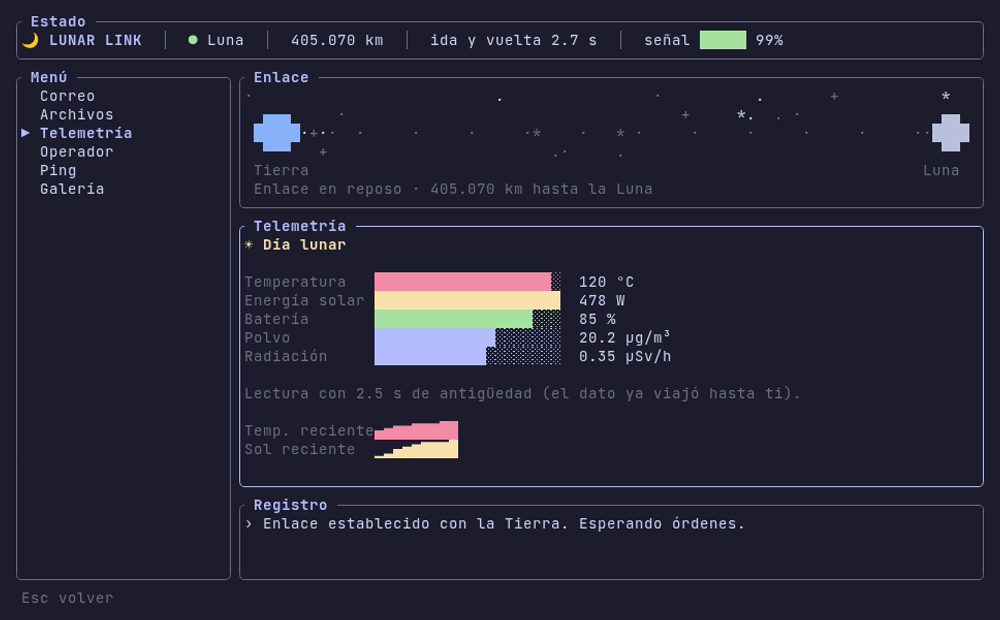
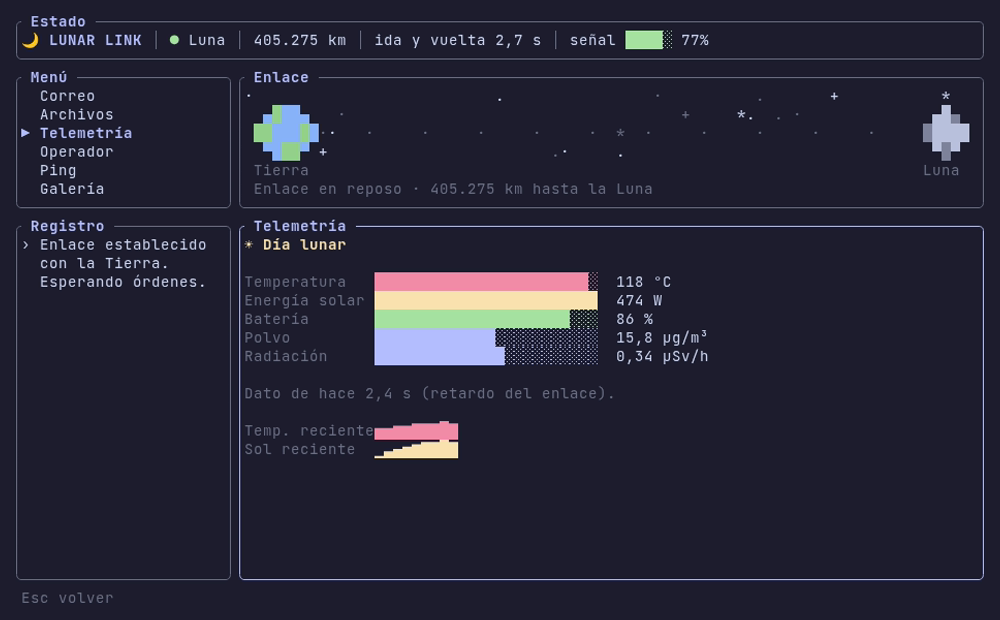
feat: redraw the ASCII gallery and texture the orbit bodies
The gallery art was lopsided (the Moon read as a ⊃, the rover as a
line of symbols) and rendered flush left in a single colour. Five new
symmetric pieces are sized for the 64x24 panel (checked by a test),
centred as a block and coloured by role. Earth, Moon and Mars in the
link panel get continents, craters and dark patches instead of flat
blocks. Adds a gallery screenshot and longer startup waits in the vhs
tapes, which sometimes captured a blank frame.

diff --git a/src/ui.rs b/src/ui.rs
@@ -27,6 +27,66 @@ const STAR: Color = Color::Rgb(205, 214, 244);
 const EARTH: Color = Color::Rgb(137, 180, 250);
 const MOON: Color = Color::Rgb(186, 194, 222);
 const MARS: Color = Color::Rgb(250, 179, 135);
+const LAND: Color = Color::Rgb(148, 210, 140);
+const CRATER: Color = Color::Rgb(127, 132, 156);
+const MARS_DARK: Color = Color::Rgb(206, 126, 96);
+
+/// Sprite de un cuerpo celeste: glifos y, en paralelo, una máscara de color por celda.
+/// En la máscara `o` es el color base, `x` el secundario y el espacio deja ver el
+/// fondo (las estrellas).
+struct Sprite {
+    rows: [&'static str; 3],
+    mask: [&'static str; 3],
+    base: Color,
+    detail: Color,
+}
+
+const EARTH_SPRITE: Sprite = Sprite {
+    rows: [" ▄███▄ ", "███████", " ▀███▀ "],
+    mask: [" oxooo ", "xxoooxo", " ooxxo "],
+    base: EARTH,
+    detail: LAND,
+};
+const MOON_SPRITE: Sprite = Sprite {
+    rows: [" ▄█▄ ", "█████", " ▀█▀ "],
+    mask: [" oox ", "xoooo", " oxo "],
+    base: MOON,
+    detail: CRATER,
+};
+const MARS_SPRITE: Sprite = Sprite {
+    rows: [" ▄█▄ ", "█████", " ▀█▀ "],
+    mask: [" oox ", "xooxo", " oxo "],
+    base: MARS,
+    detail: MARS_DARK,
+};
+
+impl Sprite {
+    fn width(&self) -> i32 {
+        self.rows[0].chars().count() as i32
+    }
+
+    /// Dibuja el sprite con su esquina superior izquierda en (`x`, `y`).
+    fn draw(&self, buf: &mut Buffer, area: Rect, x: i32, y: i32) {
+        for (dy, (row, mask)) in self.rows.iter().zip(self.mask).enumerate() {
+            for (dx, (glyph, m)) in row.chars().zip(mask.chars()).enumerate() {
+                let color = match m {
+                    'o' => self.base,
+                    'x' => self.detail,
+                    _ => continue,
+                };
+                let mut tmp = [0u8; 4];
+                put(
+                    buf,
+                    area,
+                    x + dx as i32,
+                    y + dy as i32,
+                    glyph.encode_utf8(&mut tmp),
+                    Style::new().fg(color),
+                );
+            }
+        }
+    }
+}
 
 pub const MENU_WIDTH: u16 = 24;
 pub const MIN_WIDTH: u16 = 64;
@@ -352,13 +412,14 @@ fn render_orbit(frame: &mut Frame, app: &App, area: Rect) {
     let center = y0 + sky_h / 2;
     let w = i32::from(inner.width);
 
-    let (dest_color, dest_label) = match app.link.target {
-        Target::Luna => (MOON, "Luna"),
-        Target::Marte => (MARS, "Marte"),
+    let dest = match app.link.target {
+        Target::Luna => &MOON_SPRITE,
+        Target::Marte => &MARS_SPRITE,
     };
+    let dest_label = app.link.target.label();
     let earth_x = x0 + 1;
-    let dest_x = x0 + w - 5;
-    let path_start = earth_x + 6;
+    let dest_x = x0 + w - 1 - dest.width();
+    let path_start = earth_x + EARTH_SPRITE.width() + 1;
     let path_end = dest_x - 2;
     let path_len = f64::from(path_end - path_start).max(1.0);
 
@@ -399,25 +460,27 @@ fn render_orbit(frame: &mut Frame, app: &App, area: Rect) {
     }
 
     // Cuerpos celestes.
-    let earth = [" ▄▄▄ ", "█████", " ▀▀▀ "];
-    let dest = [" ▄▄ ", "████", " ▀▀ "];
-    for (i, row) in earth.iter().enumerate() {
-        let y = center - 1 + i as i32;
-        put(buf, inner, earth_x, y, row, Style::new().fg(EARTH));
-    }
-    for (i, row) in dest.iter().enumerate() {
-        let y = center - 1 + i as i32;
-        put(buf, inner, dest_x, y, row, Style::new().fg(dest_color));
-    }
+    EARTH_SPRITE.draw(buf, inner, earth_x, center - 1);
+    dest.draw(buf, inner, dest_x, center - 1);
+    // Etiquetas centradas bajo cada cuerpo.
     let label_y = y0 + sky_h;
-    put(buf, inner, earth_x, label_y, "Tierra", Style::new().fg(DIM));
+    let centered = |x: i32, sprite_w: i32, label: &str| x + (sprite_w - label.len() as i32) / 2;
+    let style = Style::new().fg(DIM);
     put(
         buf,
         inner,
-        dest_x - 1,
+        centered(earth_x, EARTH_SPRITE.width(), "Tierra"),
+        label_y,
+        "Tierra",
+        style,
+    );
+    put(
+        buf,
+        inner,
+        centered(dest_x, dest.width(), dest_label),
         label_y,
         dest_label,
-        Style::new().fg(DIM),
+        style,
     );
 
     // Paquetes en vuelo, con estela.
@@ -536,7 +599,7 @@ fn render_placeholder(frame: &mut Frame, app: &App, area: Rect) {
     let hint = if app.focus == Focus::Menu {
         "Pulsa Enter para conectar."
     } else {
-        "Esperando al servidor lunar..."
+        "Esperando respuesta del servidor..."
     };
     let lines = vec![
         Line::raw(app.selected_item().intro()),
@@ -910,15 +973,44 @@ fn render_gallery(frame: &mut Frame, app: &App, area: Rect) {
     let Some((index, total, title, art)) = &app.gallery.image else {
         return render_placeholder(frame, app, area);
     };
-    let mut lines = vec![
-        Line::styled(
-            format!("{title}  ({}/{total})", index + 1),
-            Style::new().fg(ACCENT).bold(),
-        ),
-        Line::raw(""),
-    ];
-    lines.extend(art.lines().map(|l| Line::styled(l, Style::new().fg(GOLD))));
-    frame.render_widget(Paragraph::new(lines), area);
+    let [title_area, art_area] =
+        Layout::vertical([Constraint::Length(2), Constraint::Min(0)]).areas(area);
+    frame.render_widget(
+        Paragraph::new(Line::from(vec![
+            Span::styled(title.as_str(), Style::new().fg(ACCENT).bold()),
+            Span::styled(format!("  {}/{total}", index + 1), Style::new().fg(DIM)),
+        ])),
+        title_area,
+    );
+
+    // Se centra el dibujo como bloque: centrar cada línea por separado lo deformaría.
+    let rows: Vec<&str> = art.lines().collect();
+    let art_w = rows.iter().map(|l| width_of(l)).max().unwrap_or(0) as u16;
+    let art_h = rows.len() as u16;
+    let x = art_area.x + art_area.width.saturating_sub(art_w) / 2;
+    let y = art_area.y + art_area.height.saturating_sub(art_h) / 2;
+    let lines: Vec<Line> = rows
+        .iter()
+        .map(|row| {
+            // Estrellas en dorado, océanos (~) en azul y el resto en el gris lunar.
+            Line::from(
+                row.chars()
+                    .map(|c| {
+                        let color = match c {
+                            '*' | '+' => GOLD,
+                            '~' => EARTH,
+                            _ => MOON,
+                        };
+                        Span::styled(c.to_string(), Style::new().fg(color))
+                    })
+                    .collect::<Vec<_>>(),
+            )
+        })
+        .collect();
+    frame.render_widget(
+        Paragraph::new(lines),
+        Rect { x, y, ..art_area }.intersection(art_area),
+    );
 }
 
 #[cfg(test)]

diff --git a/src/server.rs b/src/server.rs
@@ -241,6 +241,17 @@ mod tests {
     }
 
     #[test]
+    fn gallery_art_fits_the_smallest_panel() {
+        // Panel de la galería a 64×24: 38 columnas y 8 filas bajo el título.
+        for img in &content().images {
+            let art = img.art.trim_matches('\n');
+            let w = art.lines().map(|l| l.chars().count()).max().unwrap_or(0);
+            assert!(w <= 38 && art.lines().count() <= 8, "{}", img.title);
+            assert!(art.is_ascii(), "{} debe ser ASCII puro", img.title);
+        }
+    }
+
+    #[test]
     fn route_depends_on_target_and_ends_at_the_server() {
         for target in [Target::Luna, Target::Marte] {
             let Response::Route(hops) = handle(&Request::Traceroute(target), ZERO) else {
